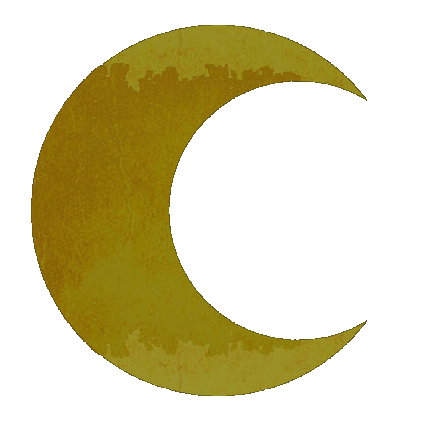
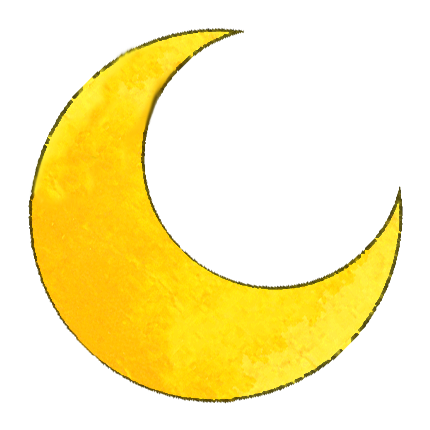
changes

diff --git a/src/components/who.js b/src/components/who.js
@@ -4,6 +4,8 @@ import {connect} from 'react-redux';
 
 import cloudAnim from './cloudanimation'
 
+import kaikuutamo from '../pictures3/kaikuutamo.jpg'
+
 import './who.css';
 
 class Who extends React.Component {
@@ -23,43 +25,62 @@ componentDidMount () {
 
             <div className="tablewrap">
             <div id="whowrap2">
-                <h1>Kai Kuutamo</h1>
 
-                <p>"Sed ut perspiciatis unde omnis iste natus error sit voluptatem accusantium doloremque laudantium, totam rem aperiam, eaque ipsa quae ab illo inventore veritatis et quasi architecto beatae vitae dicta sunt explicabo. Nemo enim ipsam voluptatem quia voluptas sit aspernatur aut odit aut fugit, sed quia consequuntur magni dolores eos qui ratione voluptatem sequi nesciunt. Neque porro quisquam est, qui dolorem ipsum quia dolor sit amet, consectetur, adipisci velit, sed quia non numquam eius modi tempora incidunt ut labore et dolore magnam aliquam quaerat voluptatem. Ut enim ad minima veniam, quis nostrum exercitationem ullam corporis suscipit laboriosam, nisi ut aliquid ex ea commodi consequatur? Quis autem vel eum iure reprehenderit qui in ea voluptate velit esse quam nihil molestiae consequatur, vel illum qui dolorem eum fugiat quo voluptas nulla pariatur?"</p>
-                <br></br><br></br>
+               <div id="whotitlewrap">
+               <h1 id="whotitle">Jonglööri Kai Kuutamo</h1>
+                
+               </div>
 
-                <p>"Sed ut perspiciatis unde omnis iste natus error sit voluptatem accusantium doloremque laudantium, totam rem aperiam, eaque ipsa quae ab illo inventore veritatis et quasi architecto beatae vitae dicta sunt explicabo. Nemo enim ipsam voluptatem quia voluptas sit aspernatur aut odit aut fugit, sed quia consequuntur magni dolores eos qui ratione voluptatem sequi nesciunt. Neque porro quisquam est, qui dolorem ipsum quia dolor sit amet, consectetur, adipisci velit, sed quia non numquam eius modi tempora incidunt ut labore et dolore magnam aliquam quaerat voluptatem. Ut enim ad minima veniam, quis nostrum exercitationem ullam corporis suscipit laboriosam, nisi ut aliquid ex ea commodi consequatur? Quis autem vel eum iure reprehenderit qui in ea voluptate velit esse quam nihil molestiae consequatur, vel illum qui dolorem eum fugiat quo voluptas nulla pariatur?"</p>
-                <br></br><br></br>
+                <div id="whointro">
 
-                <p>"Sed ut perspiciatis unde omnis iste natus error sit voluptatem accusantium doloremque laudantium, totam rem aperiam, eaque ipsa quae ab illo inventore veritatis et quasi architecto beatae vitae dicta sunt explicabo. Nemo enim ipsam voluptatem quia voluptas sit aspernatur aut odit aut fugit, sed quia consequuntur magni dolores eos qui ratione voluptatem sequi nesciunt. Neque porro quisquam est, qui dolorem ipsum quia dolor sit amet, consectetur, adipisci velit, sed quia non numquam eius modi tempora incidunt ut labore et dolore magnam aliquam quaerat voluptatem. Ut enim ad minima veniam, quis nostrum exercitationem ullam corporis suscipit laboriosam, nisi ut aliquid ex ea commodi consequatur? Quis autem vel eum iure reprehenderit qui in ea voluptate velit esse quam nihil molestiae consequatur, vel illum qui dolorem eum fugiat quo voluptas nulla pariatur?"</p>
-                <br></br><br></br>
+                
 
-                <p>"Sed ut perspiciatis unde omnis iste natus error sit voluptatem accusantium doloremque laudantium, totam rem aperiam, eaque ipsa quae ab illo inventore veritatis et quasi architecto beatae vitae dicta sunt explicabo. Nemo enim ipsam voluptatem quia voluptas sit aspernatur aut odit aut fugit, sed quia consequuntur magni dolores eos qui ratione voluptatem sequi nesciunt. Neque porro quisquam est, qui dolorem ipsum quia dolor sit amet, consectetur, adipisci velit, sed quia non numquam eius modi tempora incidunt ut labore et dolore magnam aliquam quaerat voluptatem. Ut enim ad minima veniam, quis nostrum exercitationem ullam corporis suscipit laboriosam, nisi ut aliquid ex ea commodi consequatur? Quis autem vel eum iure reprehenderit qui in ea voluptate velit esse quam nihil molestiae consequatur, vel illum qui dolorem eum fugiat quo voluptas nulla pariatur?"</p>
-                <br></br><br></br>
+                <div id="whotext">
+                
+                <p>
+                Kai Kuutamo on jongleeraukseen keskittynyt sirkustaiteilija, jolla on takanaan kymmenen vuoden esiintymiskokemus ja lukemattomat tunnit harjoittelua. Hän on koulutettu sirkustaiteiden opettaja, Sirkussirkus Putiikin omistaja, Herttakuninkaat-ryhmän toinen perustajajäsen ja myös Multi Bueno -festivaalin perustaja ja järjestäjä.
+                </p>
 
-                <p>"Sed ut perspiciatis unde omnis iste natus error sit voluptatem accusantium doloremque laudantium, totam rem aperiam, eaque ipsa quae ab illo inventore veritatis et quasi architecto beatae vitae dicta sunt explicabo. Nemo enim ipsam voluptatem quia voluptas sit aspernatur aut odit aut fugit, sed quia consequuntur magni dolores eos qui ratione voluptatem sequi nesciunt. Neque porro quisquam est, qui dolorem ipsum quia dolor sit amet, consectetur, adipisci velit, sed quia non numquam eius modi tempora incidunt ut labore et dolore magnam aliquam quaerat voluptatem. Ut enim ad minima veniam, quis nostrum exercitationem ullam corporis suscipit laboriosam, nisi ut aliquid ex ea commodi consequatur? Quis autem vel eum iure reprehenderit qui in ea voluptate velit esse quam nihil molestiae consequatur, vel illum qui dolorem eum fugiat quo voluptas nulla pariatur?"</p>
-                <br></br><br></br>
+                <p>
+                Uransa aikana Kuutamo on opiskellut jongleerausta Suomessa ja Ukrainassa, esiintynyt muun muassa Englannissa, Saksassa, Belgiassa, Ruotsissa, Eestissä, Thaimaassa ja Kambodzassa, voittanut katuesiintymisen Suomen mestaruuden, rikkonut jongleerauksen Suomen ennätyksen sekä pitänyt yllä kaksi vuotta ilmaista sirkuskoulua Kambodzassa.
+                </p>
 
-                <p>"Sed ut perspiciatis unde omnis iste natus error sit voluptatem accusantium doloremque laudantium, totam rem aperiam, eaque ipsa quae ab illo inventore veritatis et quasi architecto beatae vitae dicta sunt explicabo. Nemo enim ipsam voluptatem quia voluptas sit aspernatur aut odit aut fugit, sed quia consequuntur magni dolores eos qui ratione voluptatem sequi nesciunt. Neque porro quisquam est, qui dolorem ipsum quia dolor sit amet, consectetur, adipisci velit, sed quia non numquam eius modi tempora incidunt ut labore et dolore magnam aliquam quaerat voluptatem. Ut enim ad minima veniam, quis nostrum exercitationem ullam corporis suscipit laboriosam, nisi ut aliquid ex ea commodi consequatur? Quis autem vel eum iure reprehenderit qui in ea voluptate velit esse quam nihil molestiae consequatur, vel illum qui dolorem eum fugiat quo voluptas nulla pariatur?"</p>
-                <br></br><br></br>
+                <p>
+                Nykyään hän työskentelee pääasiassa Suomessa esiintyen yksin, Herttakuninkaat-ryhmän, Aimo Annoksen tai Merkkarit-orkesterin kanssa. Esiintymispaikat vaihtelevat lasten festivaaleista vanhainkoteihin sekä suurtapahtumista pieniin syntymäpäiviin.
+                </p>
 
-                <p>"Sed ut perspiciatis unde omnis iste natus error sit voluptatem accusantium doloremque laudantium, totam rem aperiam, eaque ipsa quae ab illo inventore veritatis et quasi architecto beatae vitae dicta sunt explicabo. Nemo enim ipsam voluptatem quia voluptas sit aspernatur aut odit aut fugit, sed quia consequuntur magni dolores eos qui ratione voluptatem sequi nesciunt. Neque porro quisquam est, qui dolorem ipsum quia dolor sit amet, consectetur, adipisci velit, sed quia non numquam eius modi tempora incidunt ut labore et dolore magnam aliquam quaerat voluptatem. Ut enim ad minima veniam, quis nostrum exercitationem ullam corporis suscipit laboriosam, nisi ut aliquid ex ea commodi consequatur? Quis autem vel eum iure reprehenderit qui in ea voluptate velit esse quam nihil molestiae consequatur, vel illum qui dolorem eum fugiat quo voluptas nulla pariatur?"</p>
-                <br></br><br></br>
+                <p>
+                "Esitämme valmiita teoksia omien kiertueaikataulujemme mukaan ja tilauksesta. Toisinaan rakennamme tapahtumiin ja tilaisuuksiin myös omia ohjelmia tilaajan toiveiden mukaisesti. Opetuspalveluita tarjoamme eri sirkuskouluille ja kerhoille sovitun mittaisissa jaksoissa, ja järjestämme myös kertaluontoisia jongleeraustyöpajoja kaikenlaisille ryhmille tilauksesta. Kaikki on mahdollista, jos kalenterissa on tilaa ja palkkiosta päästään yhteisymmärrykseen." 
+                </p>
 
-                <p>"Sed ut perspiciatis unde omnis iste natus error sit voluptatem accusantium doloremque laudantium, totam rem aperiam, eaque ipsa quae ab illo inventore veritatis et quasi architecto beatae vitae dicta sunt explicabo. Nemo enim ipsam voluptatem quia voluptas sit aspernatur aut odit aut fugit, sed quia consequuntur magni dolores eos qui ratione voluptatem sequi nesciunt. Neque porro quisquam est, qui dolorem ipsum quia dolor sit amet, consectetur, adipisci velit, sed quia non numquam eius modi tempora incidunt ut labore et dolore magnam aliquam quaerat voluptatem. Ut enim ad minima veniam, quis nostrum exercitationem ullam corporis suscipit laboriosam, nisi ut aliquid ex ea commodi consequatur? Quis autem vel eum iure reprehenderit qui in ea voluptate velit esse quam nihil molestiae consequatur, vel illum qui dolorem eum fugiat quo voluptas nulla pariatur?"</p>
-                <br></br><br></br>
+                <p>
+                -Kai Kuutamo 
 
-                <p>"Sed ut perspiciatis unde omnis iste natus error sit voluptatem accusantium doloremque laudantium, totam rem aperiam, eaque ipsa quae ab illo inventore veritatis et quasi architecto beatae vitae dicta sunt explicabo. Nemo enim ipsam voluptatem quia voluptas sit aspernatur aut odit aut fugit, sed quia consequuntur magni dolores eos qui ratione voluptatem sequi nesciunt. Neque porro quisquam est, qui dolorem ipsum quia dolor sit amet, consectetur, adipisci velit, sed quia non numquam eius modi tempora incidunt ut labore et dolore magnam aliquam quaerat voluptatem. Ut enim ad minima veniam, quis nostrum exercitationem ullam corporis suscipit laboriosam, nisi ut aliquid ex ea commodi consequatur? Quis autem vel eum iure reprehenderit qui in ea voluptate velit esse quam nihil molestiae consequatur, vel illum qui dolorem eum fugiat quo voluptas nulla pariatur?"</p>
-                <br></br><br></br>
+                </p>
 
-                <p>"Sed ut perspiciatis unde omnis iste natus error sit voluptatem accusantium doloremque laudantium, totam rem aperiam, eaque ipsa quae ab illo inventore veritatis et quasi architecto beatae vitae dicta sunt explicabo. Nemo enim ipsam voluptatem quia voluptas sit aspernatur aut odit aut fugit, sed quia consequuntur magni dolores eos qui ratione voluptatem sequi nesciunt. Neque porro quisquam est, qui dolorem ipsum quia dolor sit amet, consectetur, adipisci velit, sed quia non numquam eius modi tempora incidunt ut labore et dolore magnam aliquam quaerat voluptatem. Ut enim ad minima veniam, quis nostrum exercitationem ullam corporis suscipit laboriosam, nisi ut aliquid ex ea commodi consequatur? Quis autem vel eum iure reprehenderit qui in ea voluptate velit esse quam nihil molestiae consequatur, vel illum qui dolorem eum fugiat quo voluptas nulla pariatur?"</p>
-                <br></br><br></br>
+                </div>
 
-                <p>"Sed ut perspiciatis unde omnis iste natus error sit voluptatem accusantium doloremque laudantium, totam rem aperiam, eaque ipsa quae ab illo inventore veritatis et quasi architecto beatae vitae dicta sunt explicabo. Nemo enim ipsam voluptatem quia voluptas sit aspernatur aut odit aut fugit, sed quia consequuntur magni dolores eos qui ratione voluptatem sequi nesciunt. Neque porro quisquam est, qui dolorem ipsum quia dolor sit amet, consectetur, adipisci velit, sed quia non numquam eius modi tempora incidunt ut labore et dolore magnam aliquam quaerat voluptatem. Ut enim ad minima veniam, quis nostrum exercitationem ullam corporis suscipit laboriosam, nisi ut aliquid ex ea commodi consequatur? Quis autem vel eum iure reprehenderit qui in ea voluptate velit esse quam nihil molestiae consequatur, vel illum qui dolorem eum fugiat quo voluptas nulla pariatur?"</p>
-                <br></br><br></br>
+                <div id="whopic">
+                <img alt="Kai Kuutamo" src={kaikuutamo}></img>
+                </div>
 
-                <p>"Sed ut perspiciatis unde omnis iste natus error sit voluptatem accusantium doloremque laudantium, totam rem aperiam, eaque ipsa quae ab illo inventore veritatis et quasi architecto beatae vitae dicta sunt explicabo. Nemo enim ipsam voluptatem quia voluptas sit aspernatur aut odit aut fugit, sed quia consequuntur magni dolores eos qui ratione voluptatem sequi nesciunt. Neque porro quisquam est, qui dolorem ipsum quia dolor sit amet, consectetur, adipisci velit, sed quia non numquam eius modi tempora incidunt ut labore et dolore magnam aliquam quaerat voluptatem. Ut enim ad minima veniam, quis nostrum exercitationem ullam corporis suscipit laboriosam, nisi ut aliquid ex ea commodi consequatur? Quis autem vel eum iure reprehenderit qui in ea voluptate velit esse quam nihil molestiae consequatur, vel illum qui dolorem eum fugiat quo voluptas nulla pariatur?"</p>
-                <br></br><br></br>
+                </div>
+
+                <div id="wholinks">
+                    <h2>Linkit</h2>
+
+                    <a href="http://www.sirkussirkus.com/cv.pdf" target="black">Ansioluettelo</a>
+                    <a href="https://fi.wikipedia.org/wiki/Kai_Kuutamo" target="black">Kai Kuutamo Wikipediassa</a>
+                    <a href="http://www.sirkussirkus.com/merkkarit/" target="black">Merkkarit ja Kai Kuutamo</a>
+                    <a href="http://www.sirkussirkus.com/herttakuninkaat/" target="black">Herttakuninkaat -sirkusryhmä</a>
+                    <a href="http://www.sirkussirkus.com/kkaa/" target="black">Kai Kuutamo & Aimo Annos -sirkusmusiikkiduo</a>
+                    <a href="http://putiikki.sirkussirkus.com/" target="black">Sirkussirkus Putiikki, kaikki sirkusvälineet saman katon alta</a>
+                    <a href="http://www.sirkussirkus.com/multibueno/index.html" target="black">Multi Bueno festivaali, monisyysirkusfestivaali Turussa</a>
+                    <a href="http://www.sirkussirkus.com/circuskampot/" target="black">Circus Kampot, suomalainen sirkuskoulu Kambodzassa</a>
+
+                </div>
+
+                
                 
             </div>
             </div>

diff --git a/src/components/who.css b/src/components/who.css
@@ -3,20 +3,91 @@
     
     width: 100%;
     
-    
-    
     margin-top: 10px;
-    
     z-index: 0;
+    color: var(--text3);
 }
 
 #whowrap2 {
     padding: 10px;
     width: 100%;
-    max-width: 1100px;
-    background: rgba(255, 255, 255, 0.82);
+    max-width: 1000px;
+    background: var(--table);
     margin: 0 auto;
     border-radius: 5px;
+}
+
+#whotitlewrap {
+    height: auto;
+}
+
+#whotitle {
+    margin: 0;
+    padding: 0;
+    font-size: 1.8rem;
+    font-family: 'Muli', sans-serif;
+    font-weight: 900;
+    text-align: left;
+    margin-top: 20px;
+    margin-bottom: 20px;
+    padding-left: 30px;
+}
+
+
+#whointro {
+    display: grid;
+    grid-template-columns: 1fr 1fr;
+}
+
+#whotext {
+    padding-left: 30px;
+    padding-right: 30px;
+}
+
+
+
+#whotext p {
+    margin: 0;
+    margin-top: 17px;
+    margin-bottom: 17px;
+    font-size: 1.1rem;
+    line-height: 1.5rem;
+}
+
+#whopic {
+    display: flex;
+    align-items: center;
+}
+
+#whopic img {
+    margin: 0 auto;
+    width: 100%;
+    max-width: 320px;
+}
+
+#wholinks {
+    padding-left: 30px;
+    display: flex;
+    flex-direction: column;
+    
+}
+
+#wholinks h2 {
+    margin: 0;
+    padding: 0;
+    font-size: 1.8rem;
+    font-family: 'Muli', sans-serif;
+    font-weight: 900;
+    text-align: left;
+    margin-top: 20px;
+    margin-bottom: 20px;
+    }
+
+#wholinks a {
+    color: var(--color2);
+    text-decoration: none;
+    padding-top: 10px;
+    padding-bottom: 10px;
 }
 
 /*------------------------------*/

diff --git a/src/App.js b/src/App.js
@@ -128,7 +128,11 @@ function createStars ()  {
 // Image loader
 
 var map = new THREE.TextureLoader().load( kuu );
-var material2 = new THREE.SpriteMaterial( { map: map, color: 0xffffff } );
+var material2 = new THREE.SpriteMaterial( {
+   map: map,
+   color: 0xffffff
+   
+  } );
 var sprite = new THREE.Sprite( material2 );
 sprite.scale.set(10, 10, 1)
 sprite.position.set(0, 0, 50)
@@ -162,11 +166,26 @@ scene.add(light)
 
 // let's render the scene and the camera
 
-
-
+var status = "up";
 
 function animate () {
 
+
+if (material2.rotation > 0) {
+  status = "down"
+}
+
+if (material2.rotation < -1) {
+  status = "up"
+}
+
+if (status === "up") {
+  material2.rotation += 0.01;
+} 
+
+if (status === "down") {
+  material2.rotation -= 0.01;
+}
 
 
 controls.update();

diff --git a/src/index.css b/src/index.css
@@ -10,12 +10,16 @@ body {
   -moz-osx-font-smoothing: grayscale;
   
 
-  --color1: #2c2a2a;
-  --color2: #EDF2F4;
-  --color3: #929786;
-  --color4: #f2efe8;
+  --sky1: #30718E;    /* sky upper part  */
+  --sky2: #5085A5;    /* sky bottom  */
 
-  font-family: 'Fjalla One', sans-serif;
+  --text1: #F7F9FB;   /* header text */
+  --text2: #F7F9FB;   /* slideshow text */
+
+  --text3: #30718E;   /* table text */
+  --table: #F7F9FB;   /* table background */
+
+  font-family: 'Montserrat', sans-serif;
   
 }
 

diff --git a/src/components/header.css b/src/components/header.css
@@ -2,7 +2,7 @@
 #headwrap {
     height: auto;
     z-index: 1000;
-    
+    font-family: 'Fjalla One', sans-serif;
 }
 
 #headlogowrap {
@@ -27,7 +27,7 @@
     margin: 0;
     padding: 0;
     padding: 10px;
-    color: var(--color4);
+    color: var(--text1);
     cursor: pointer;
 }
 
@@ -57,7 +57,7 @@
 
 #headlinkwrap a {
     text-decoration: none;
-    color: var(--color2);
+    color: var(--text1);
     font-size: 1.1rem;
     letter-spacing: 1.5px;
 }

diff --git a/public/index.html b/public/index.html
@@ -2,6 +2,8 @@
 <html lang="en">
 
   <link href="https://fonts.googleapis.com/css?family=Fjalla+One&display=swap" rel="stylesheet">
+  <link href="https://fonts.googleapis.com/css?family=Montserrat&display=swap" rel="stylesheet">
+  <link href="https://fonts.googleapis.com/css?family=Titillium+Web&display=swap" rel="stylesheet">
   
   <head>
     <meta charset="utf-8" />

diff --git a/src/components/frontpage.css b/src/components/frontpage.css
@@ -33,10 +33,11 @@
     position: absolute;
     bottom: 30px;
     left: -70px;
-    color: #FFE66D;
+    color: var(--text2);
     font-size: 5.5rem;
     margin: 0;
     padding: 0;
+    font-family: 'Fjalla One', sans-serif;
 }
 
 #frontsocialwrap {

diff --git a/src/App.css b/src/App.css
@@ -7,7 +7,7 @@
 #background {
   position: fixed;
   top: 0;
-  background-image: linear-gradient(#0B132B 50%, #3A506B );
+  background-image: linear-gradient( var(--sky1) 50%, var(--sky2));
   width: 100%;
   height: 100%;
   z-index: -200;
